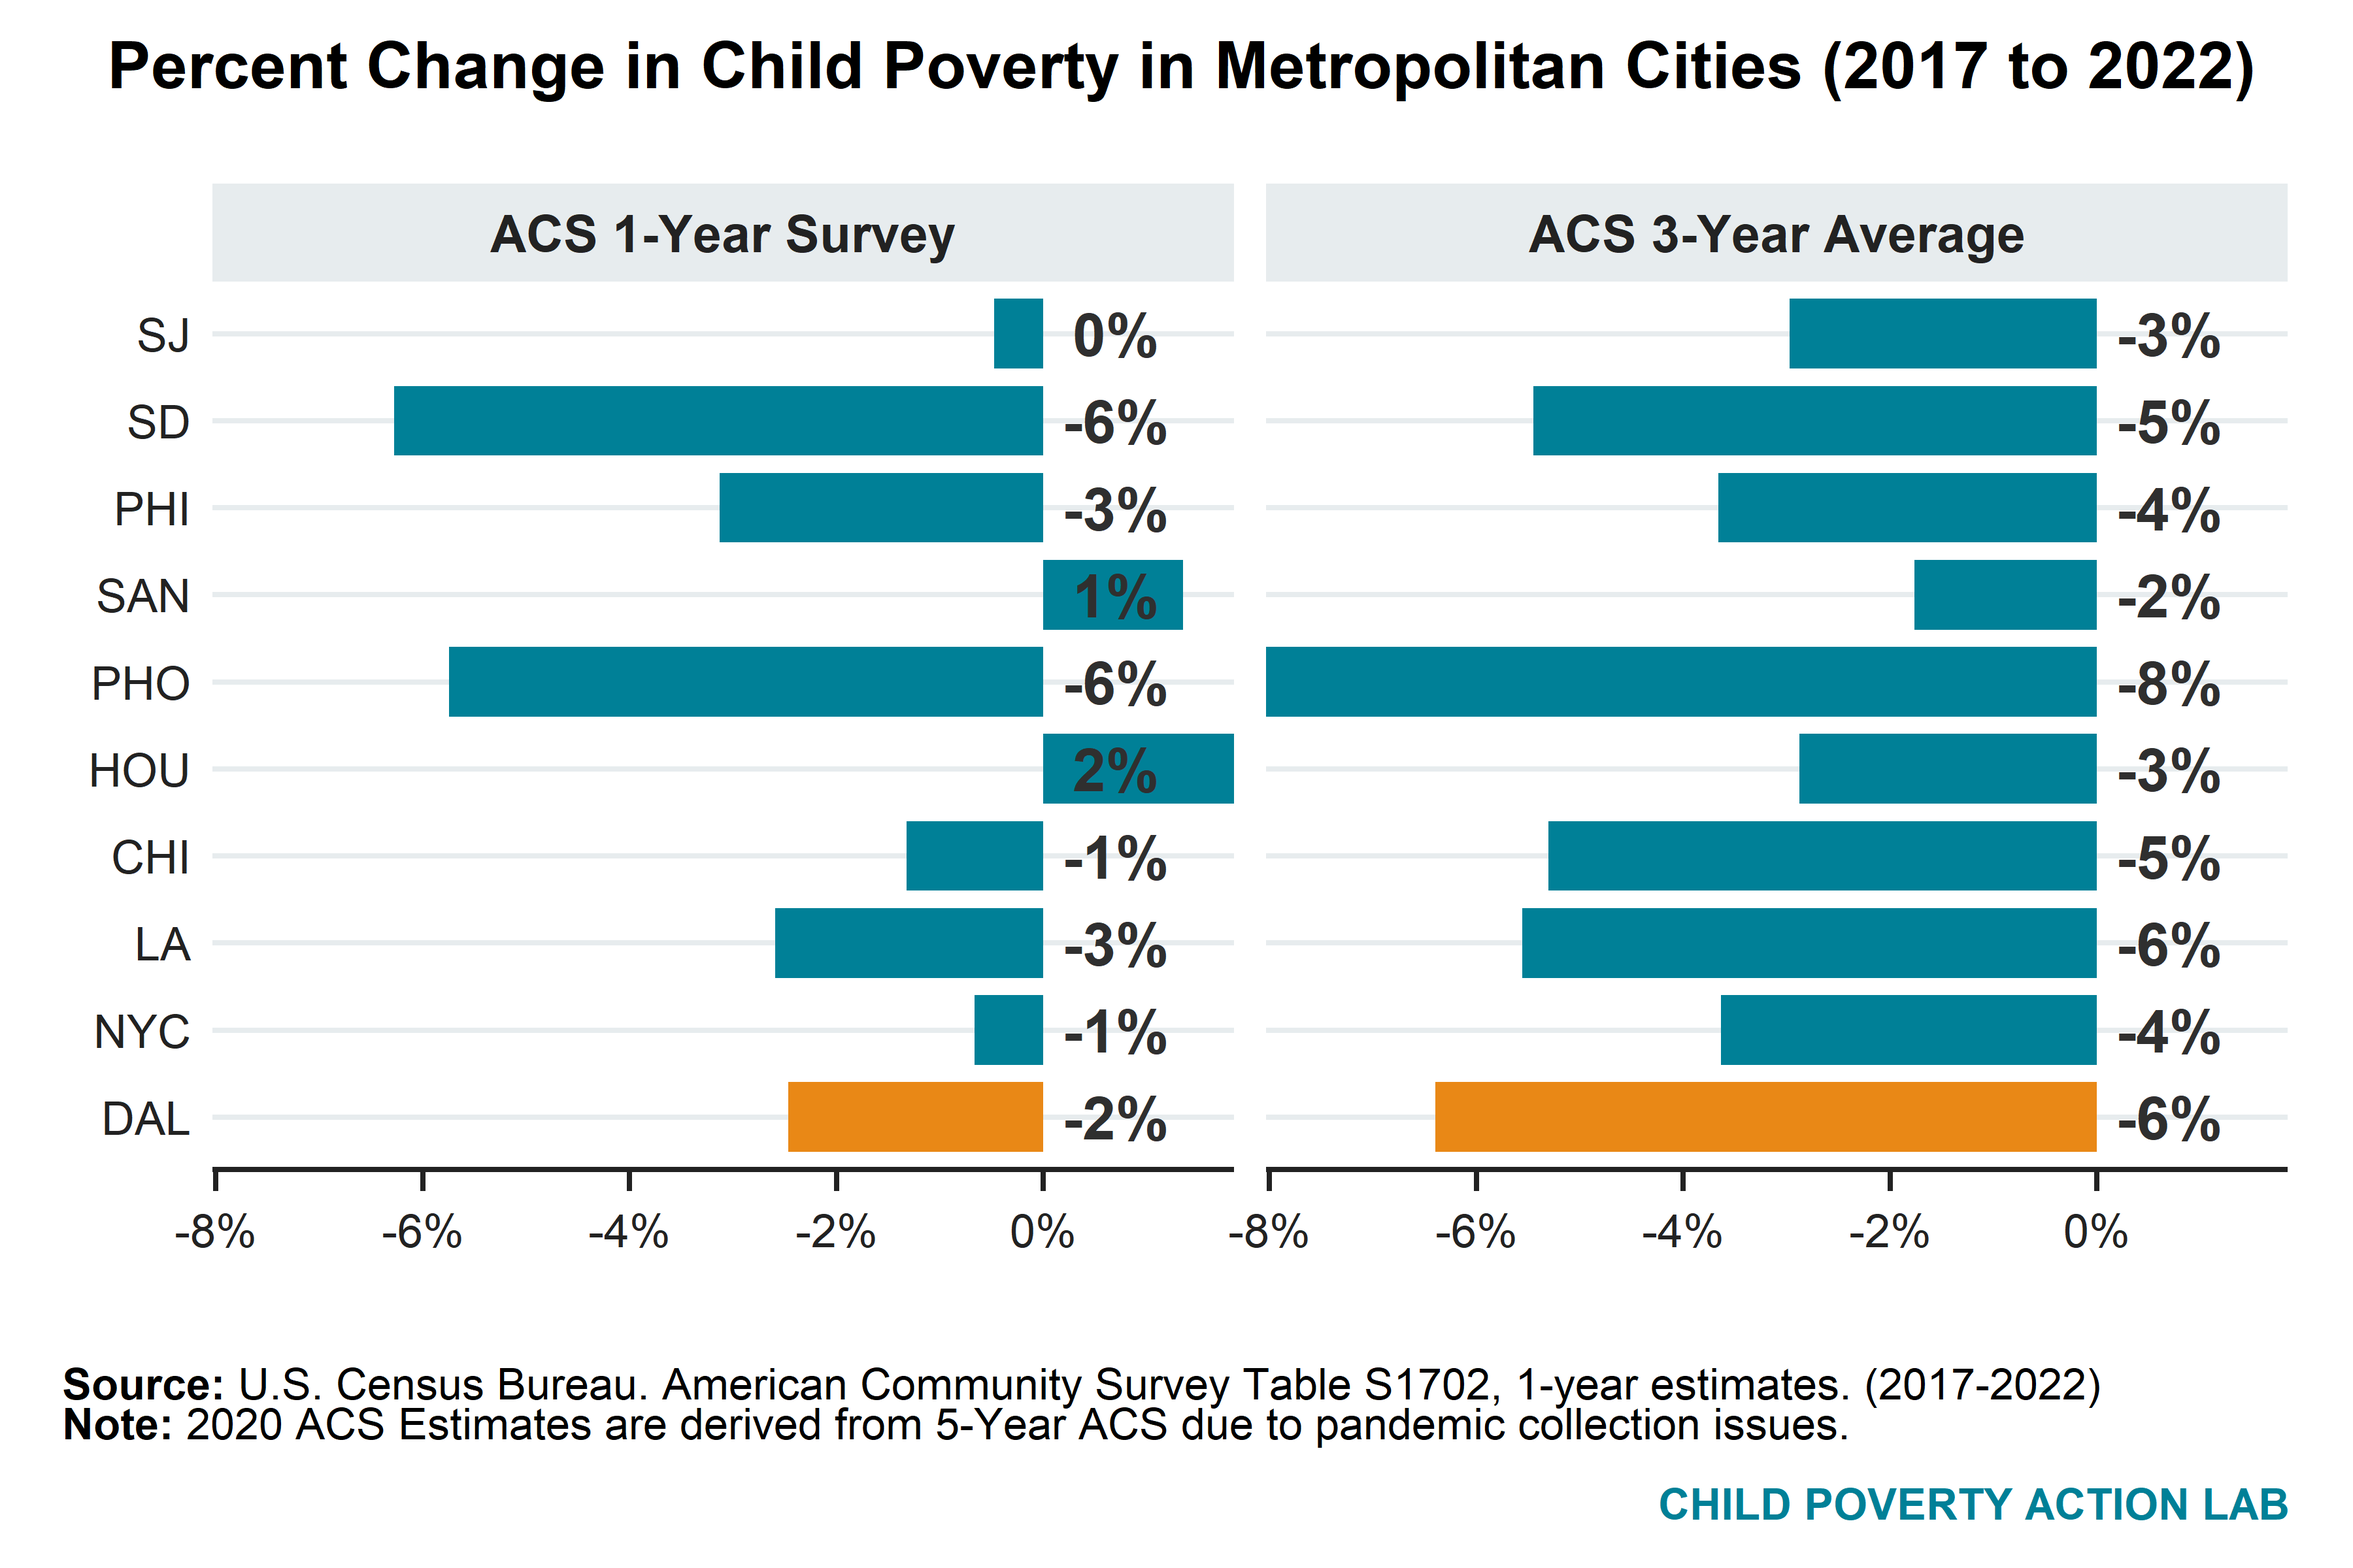
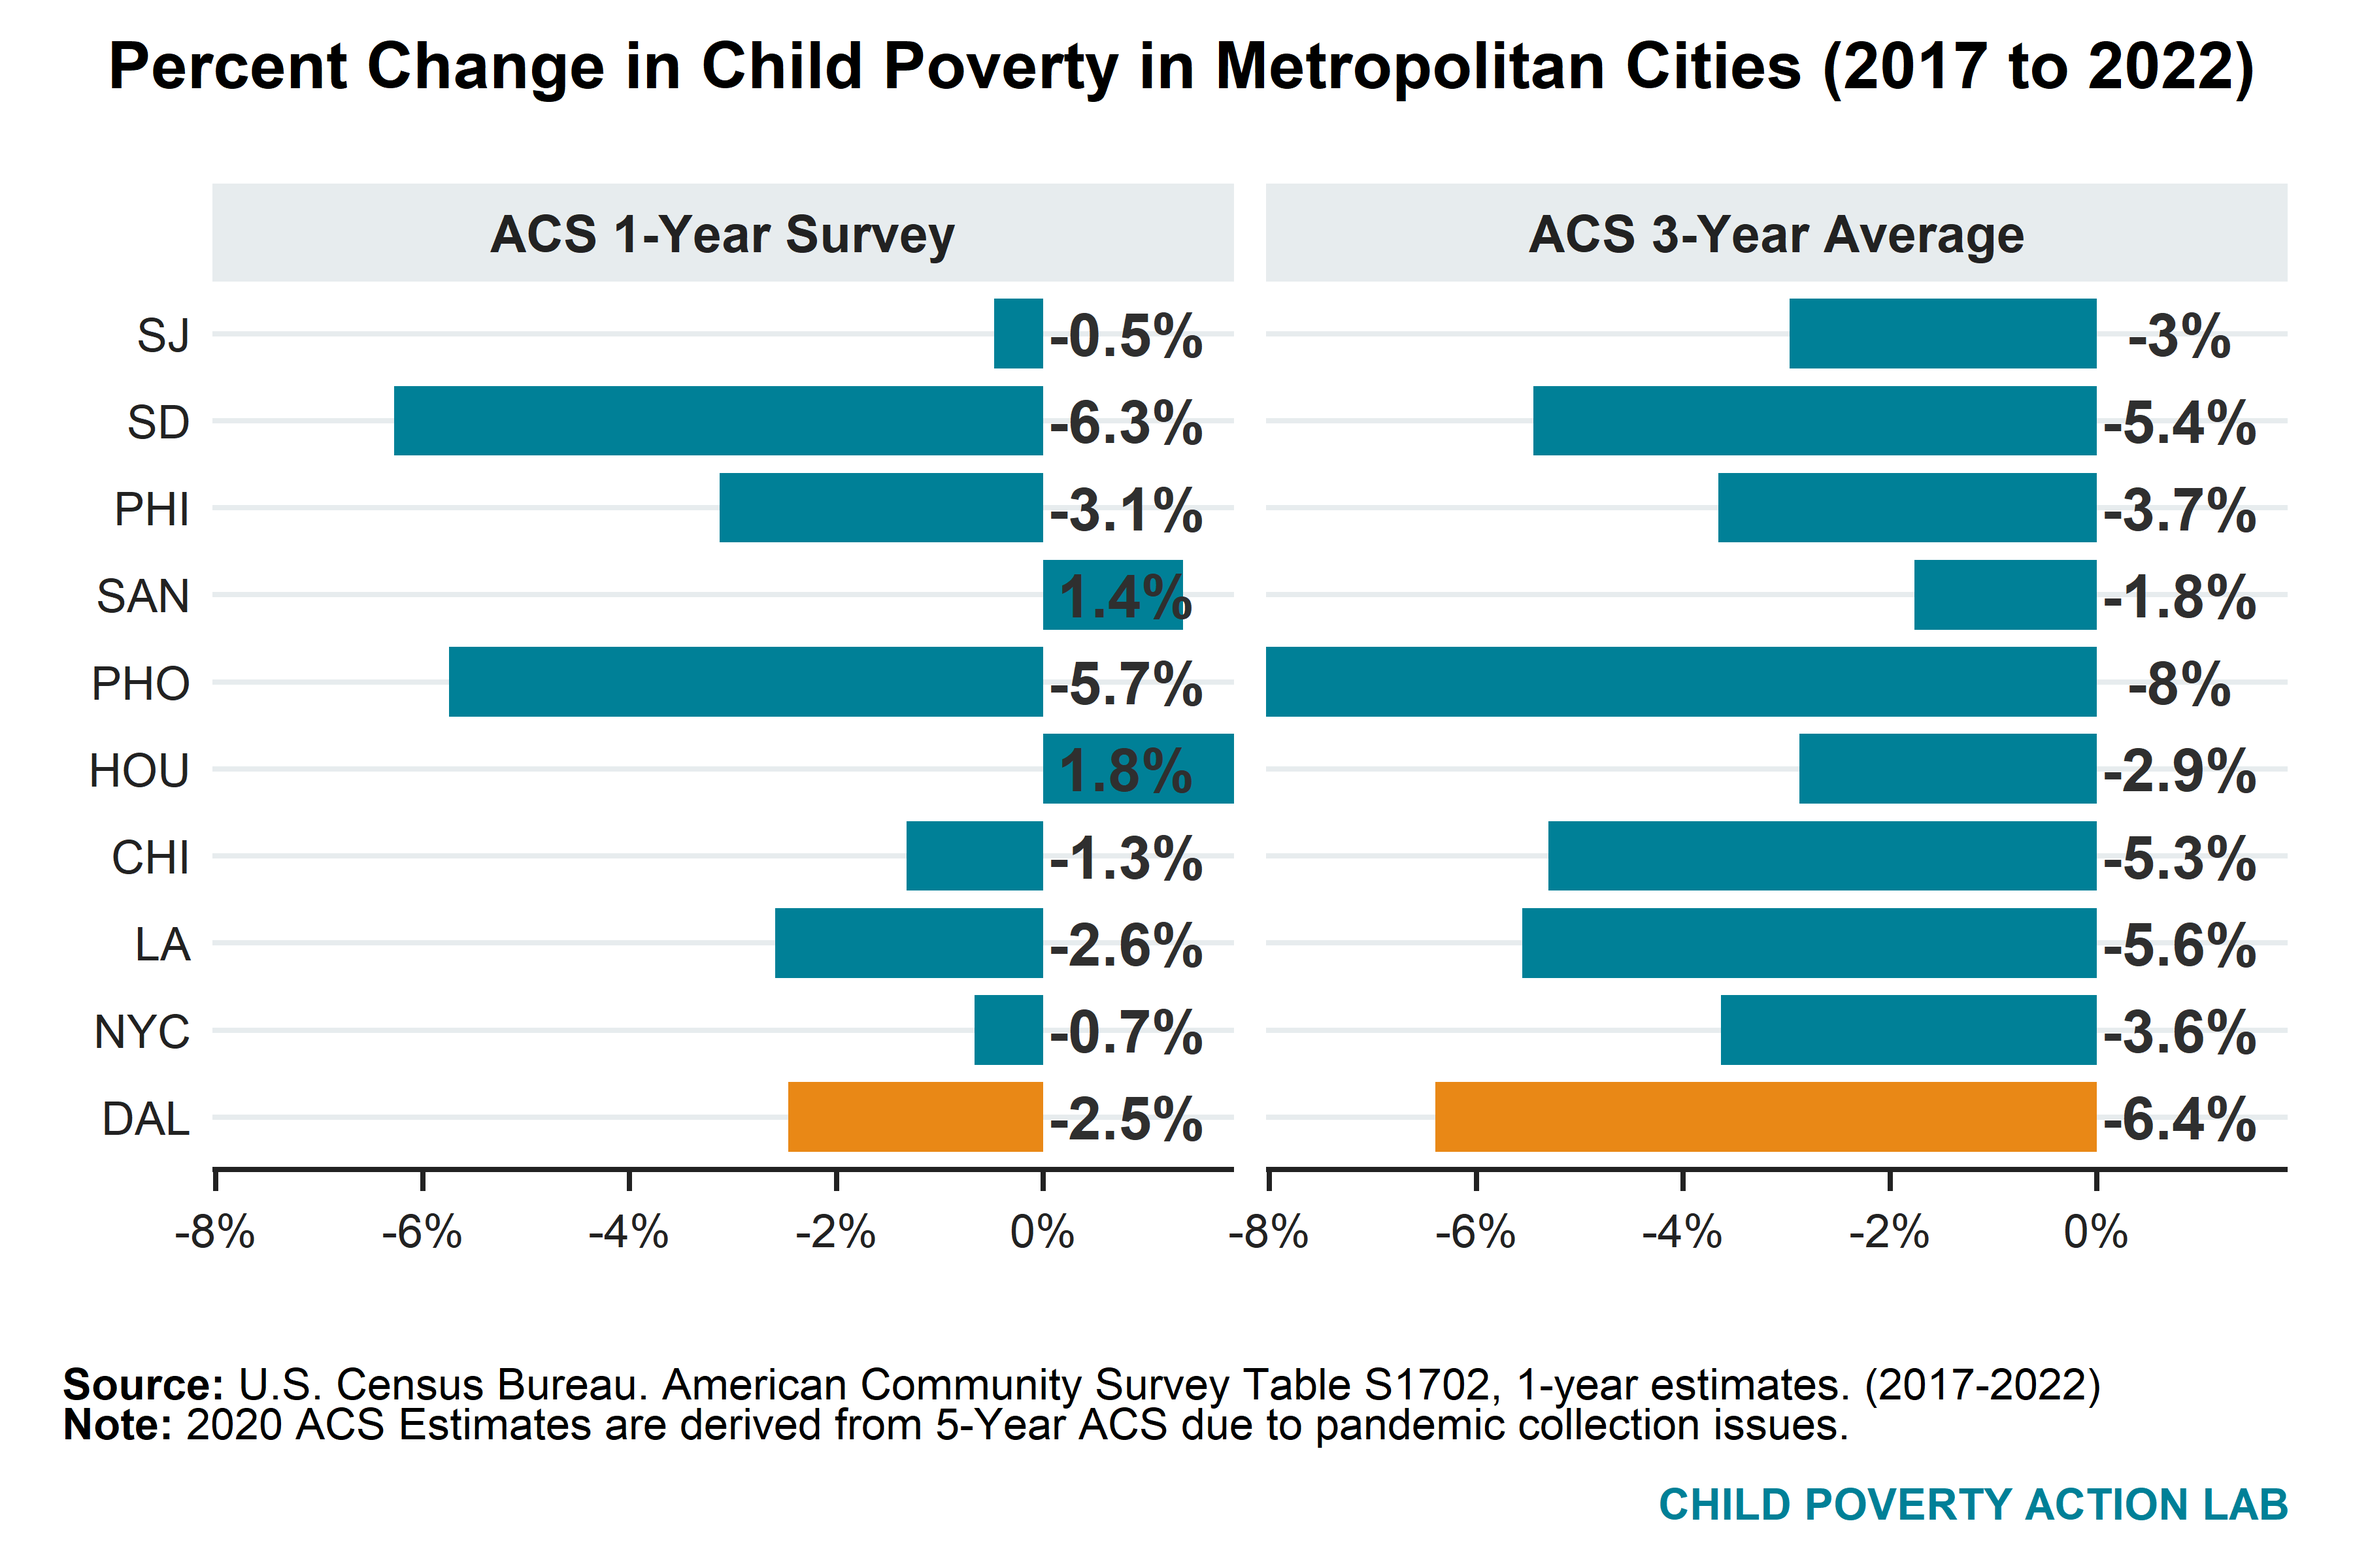
MORE LABEL CHANGES

diff --git a/docs/index.html b/docs/index.html
@@ -7,7 +7,7 @@
 <meta name="viewport" content="width=device-width, initial-scale=1.0, user-scalable=yes">
 
 
-<title>- Talking Points</title>
+<title>- Child Poverty Talking Points</title>
 <style>
 code{white-space: pre-wrap;}
 span.smallcaps{font-variant: small-caps;}
@@ -105,7 +105,7 @@ ul.task-list li input[type="checkbox"] {
 <header id="title-block-header" class="quarto-title-block default page-columns page-full">
   <div class="quarto-title-banner page-columns page-full">
     <div class="quarto-title column-body">
-      <h1 class="title">Talking Points</h1>
+      <h1 class="title">Child Poverty Talking Points</h1>
                       </div>
   </div>
     
@@ -153,8 +153,8 @@ ul.task-list li input[type="checkbox"] {
 <div class="cell">
 <div class="cell-output-display">
 
-<div class="datatables html-widget html-fill-item-overflow-hidden html-fill-item" id="htmlwidget-6d7afe728d1c783aec9a" style="width:100%;height:auto;"></div>
-<script type="application/json" data-for="htmlwidget-6d7afe728d1c783aec9a">{"x":{"filter":"none","vertical":false,"data":[["ACS 3-Year Average","ACS 1-Year Survey"],["106,663 (32.2%)","94,721 (28.3%)"],["99,402 (29.9%)","88,224 (26.7%)"],["92,881 (28.3%)","91,035 (27.8%)"],["92,311 (28.0%)","91,176 (27.8%)"],["83,938 (26.1%)","72,413 (23.8%)"],["80,895 (25.9%)","79,237 (25.9%)"]],"container":"<table class=\"display\">\n  <thead>\n    <tr>\n      <th>Data Source<\/th>\n      <th>2017<\/th>\n      <th>2018<\/th>\n      <th>2019<\/th>\n      <th>2020<\/th>\n      <th>2021<\/th>\n      <th>2022<\/th>\n    <\/tr>\n  <\/thead>\n<\/table>","options":{"paging":false,"searching":false,"info":false,"columnDefs":[],"order":[],"autoWidth":false,"orderClasses":false,"rowCallback":"function(row, data, displayNum, displayIndex, dataIndex) {\n}"}},"evals":["options.rowCallback"],"jsHooks":[]}</script>
+<div class="datatables html-widget html-fill-item-overflow-hidden html-fill-item" id="htmlwidget-d85d31e34bf2a280f73c" style="width:100%;height:auto;"></div>
+<script type="application/json" data-for="htmlwidget-d85d31e34bf2a280f73c">{"x":{"filter":"none","vertical":false,"data":[["ACS 3-Year Average","ACS 1-Year Survey"],["106,663 (32.2%)","94,721 (28.3%)"],["99,402 (29.9%)","88,224 (26.7%)"],["92,881 (28.3%)","91,035 (27.8%)"],["92,311 (28.0%)","91,176 (27.8%)"],["83,938 (26.1%)","72,413 (23.8%)"],["80,895 (25.9%)","79,237 (25.9%)"]],"container":"<table class=\"display\">\n  <thead>\n    <tr>\n      <th>Data Source<\/th>\n      <th>2017<\/th>\n      <th>2018<\/th>\n      <th>2019<\/th>\n      <th>2020<\/th>\n      <th>2021<\/th>\n      <th>2022<\/th>\n    <\/tr>\n  <\/thead>\n<\/table>","options":{"paging":false,"searching":false,"info":false,"columnDefs":[],"order":[],"autoWidth":false,"orderClasses":false,"rowCallback":"function(row, data, displayNum, displayIndex, dataIndex) {\n}"}},"evals":["options.rowCallback"],"jsHooks":[]}</script>
 </div>
 </div>
 <div class="cell">
@@ -183,8 +183,8 @@ ul.task-list li input[type="checkbox"] {
 <div class="cell">
 <div class="cell-output-display">
 
-<div class="datatables html-widget html-fill-item-overflow-hidden html-fill-item" id="htmlwidget-fbd11897015a1b638b3b" style="width:100%;height:auto;"></div>
-<script type="application/json" data-for="htmlwidget-fbd11897015a1b638b3b">{"x":{"filter":"none","vertical":false,"data":[["CHI","DAL","HOU","LA","NYC","PHI","PHO","SAN","SD","SJ"],["129,865 (24.4%)","80,895 (25.9%)","163,680 (30.5%)","173,657 (23.3%)","395,380 (23.5%)","104,712 (31.7%)","85,645 (21.6%)","93,121 (26.1%)","32,939 (12.6%)","15,776 (7.6%)"],["133,289 (26.0%)","79,237 (25.9%)","177,119 (34.1%)","156,090 (22.1%)","403,503 (24.5%)","92,970 (28.8%)","71,304 (18.8%)","95,777 (27.7%)","29,818 (12.0%)","16,638 (8.6%)"]],"container":"<table class=\"display\">\n  <thead>\n    <tr>\n      <th>City<\/th>\n      <th>ACS 3-Year Average<\/th>\n      <th>ACS 1-Year Survey<\/th>\n    <\/tr>\n  <\/thead>\n<\/table>","options":{"paging":false,"searching":false,"info":false,"columnDefs":[],"order":[],"autoWidth":false,"orderClasses":false,"rowCallback":"function(row, data, displayNum, displayIndex, dataIndex) {\n}"}},"evals":["options.rowCallback"],"jsHooks":[]}</script>
+<div class="datatables html-widget html-fill-item-overflow-hidden html-fill-item" id="htmlwidget-b3d0a67823c64e6150f8" style="width:100%;height:auto;"></div>
+<script type="application/json" data-for="htmlwidget-b3d0a67823c64e6150f8">{"x":{"filter":"none","vertical":false,"data":[["CHI","DAL","HOU","LA","NYC","PHI","PHO","SAN","SD","SJ"],["129,865 (24.4%)","80,895 (25.9%)","163,680 (30.5%)","173,657 (23.3%)","395,380 (23.5%)","104,712 (31.7%)","85,645 (21.6%)","93,121 (26.1%)","32,939 (12.6%)","15,776 (7.6%)"],["133,289 (26.0%)","79,237 (25.9%)","177,119 (34.1%)","156,090 (22.1%)","403,503 (24.5%)","92,970 (28.8%)","71,304 (18.8%)","95,777 (27.7%)","29,818 (12.0%)","16,638 (8.6%)"]],"container":"<table class=\"display\">\n  <thead>\n    <tr>\n      <th>City<\/th>\n      <th>ACS 3-Year Average<\/th>\n      <th>ACS 1-Year Survey<\/th>\n    <\/tr>\n  <\/thead>\n<\/table>","options":{"paging":false,"searching":false,"info":false,"columnDefs":[],"order":[],"autoWidth":false,"orderClasses":false,"rowCallback":"function(row, data, displayNum, displayIndex, dataIndex) {\n}"}},"evals":["options.rowCallback"],"jsHooks":[]}</script>
 </div>
 </div>
 <p>Since 2017 the City of Dallas has had the fifth largest drop in Child Poverty compared to its peer metropolitan cities in the 3-year average.</p>
